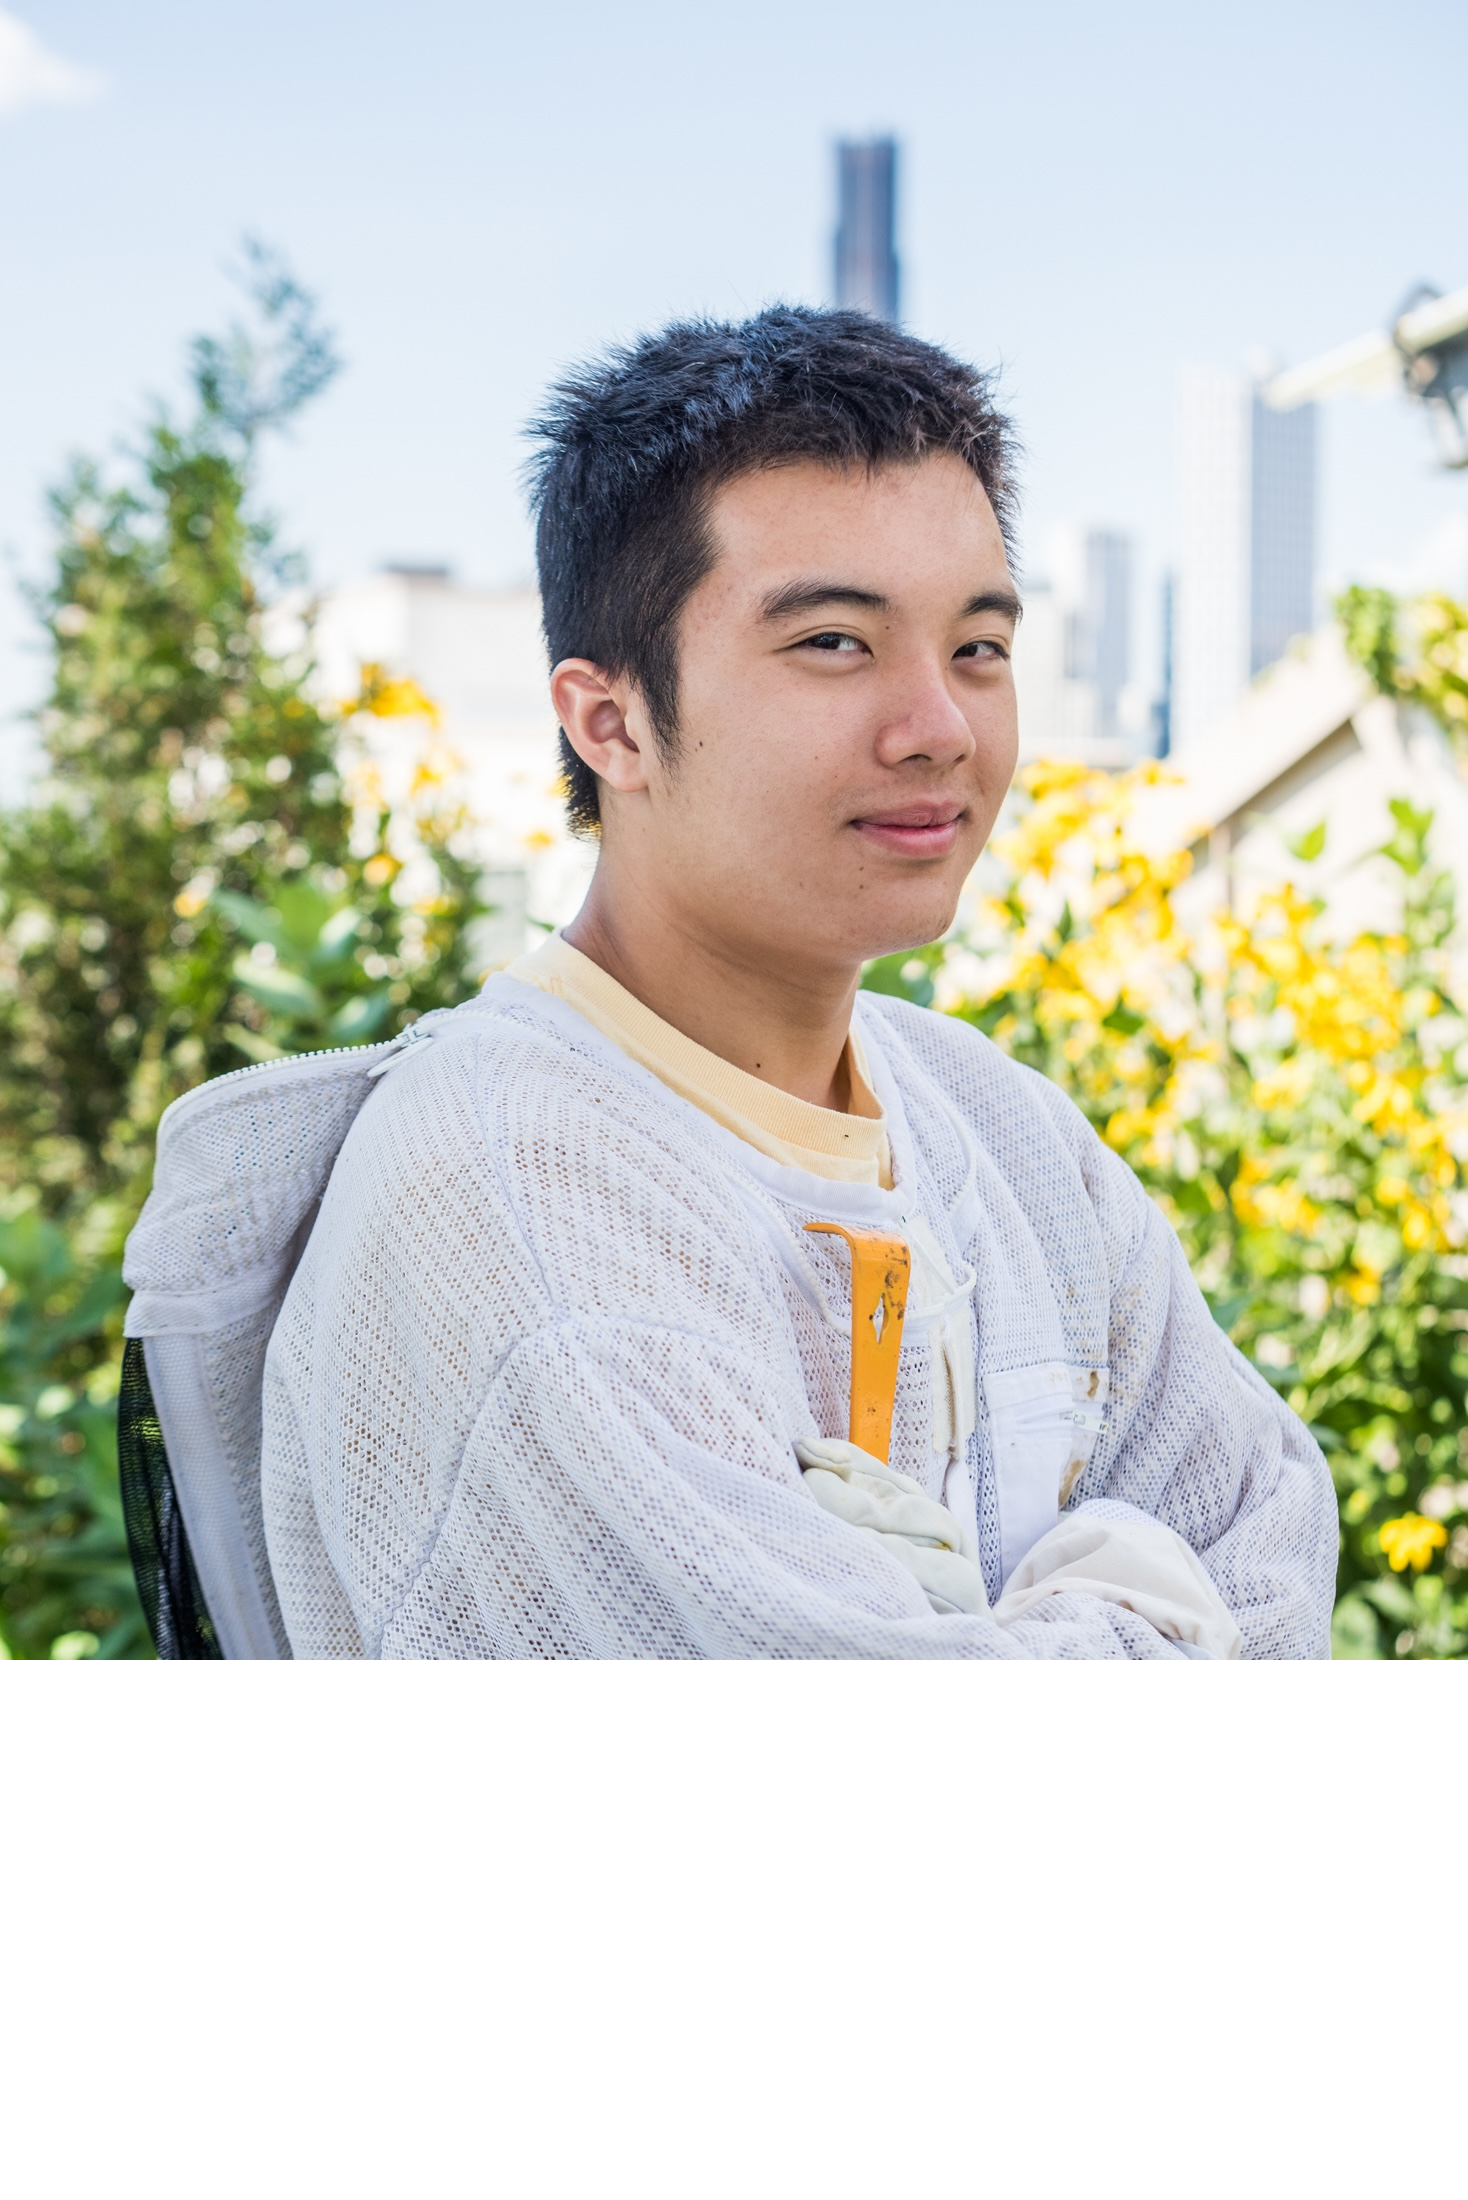
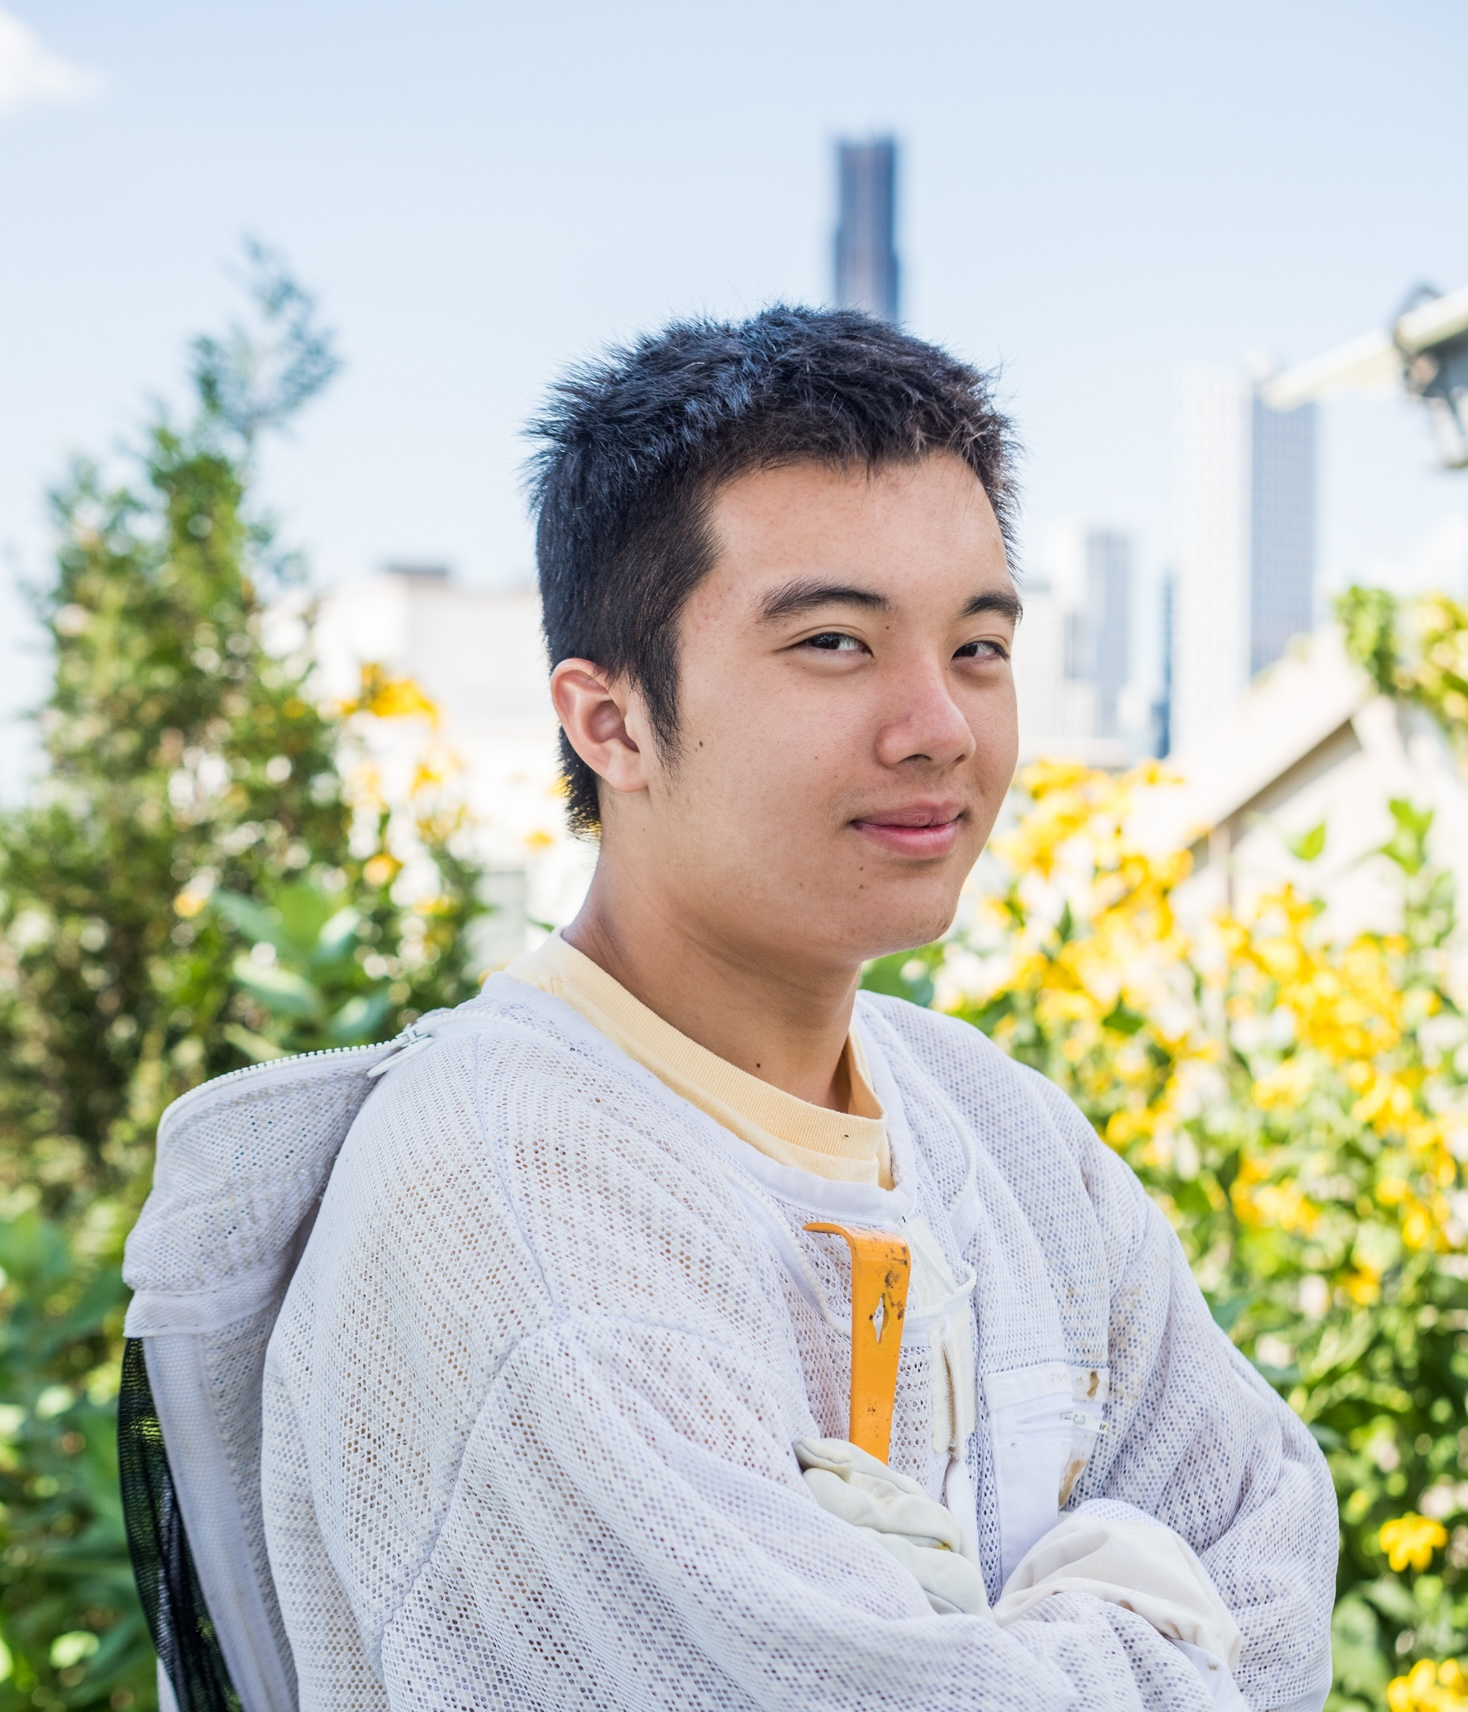
update formatting

diff --git a/src/app/page.tsx b/src/app/page.tsx
@@ -7,15 +7,23 @@ import PersonPhoto from "public/ProfilePic.png"
 export default function Home() {
     return (
         <div className="w-full h-[90vh] grid grid-cols-12 grid-rows-12 ">
-            <div className="relative inline-block z-10 col-start-2 col-span-full row-start-2 row-span-2 sm:col-start-2 sm:col-end-10 sm:row-start-3">
-                <h1 className="text-6xl z-30">Hi, I&apos;m Elias! </h1>
-                <span className="gap-x-0 mt-10 absolute opacity-75 inset-0 bottom-1 -z-10 bg-yellow-300 h-5 w-[22rem]" />
+            <div className="relative inline-block z-10 ml-4 col-start-1 col-span-full row-start-2 sm:row-start-1 row-span-2 md:col-start-1 md:col-span-full md:row-start-3 md:row-span-1 md:ml-4 lg:col-start-1 lg:col-end-10 lg:row-start-3">
+                <h1 className="text-5xl sm:text-6xl z-30">Hi, I&apos;m Elias! </h1>
+                <span className="gap-x-0 mt-6 sm:mt-10 absolute opacity-75 inset-0 bottom-1 -z-10 bg-yellow-300 h-5 w-[17rem] sm:w-[22rem]" />
             </div>
-            <p className="z-10 col-start-2 sm:text-lg row-start-6 col-end-10 sm:col-start-2    sm:col-end-7 sm:row-start-5 sm:row-end-12 md:text-xl font-light">
-                Hi people, and welcome to my website! I’m Elias, and I’m a bookworm, tech guy, and beekeeper. I’m currently a second semester senior at Stuyvesant High School, (and if all goes well) a rising freshman at Cornell University. I’m currently a researcher at Rutgers WINLAB, studying how machine learning can detect the behavior of untrained organisms, a beekeeper at various organizations, and a coder for different organizations :). The photo is from 2022, where I worked as an assistant beekeeper at the Brooklyn Bee Corps, which is part of City Growers.
+            <p className="grid z-10 col-start-1 col-span-full ml-4 mt-4 text-sm  sm:text-base row-start-9 row-span-full sm:col-start-2 sm:col-end-11 sm:mt-2 sm:row-start-8 md:col-start-1  mr-0  md:col-end-7 md:mr-2 md:row-start-4 md:row-end-10 md:text-xl md:ml-4 lg:row-start-4 lg:row-end-11 lg:col-start-1 lg:col-end-6 lg:mr-4 lg:ml-4 font-light">
+                Hi people of the internet, welcome to my website! I’m Elias, and I’m a bookworm, tech guy, and beekeeper. I’m currently a second semester senior at Stuyvesant High School, (and if all goes well) a rising freshman at Cornell University. I’m currently a researcher at Rutgers WINLAB, studying how machine learning can detect the behavior of untrained organisms, a beekeeper at various organizations, and a coder for different organizations :). The photo is from 2022, where I worked as an assistant beekeeper at the Brooklyn Bee Corps, which is part of City Growers.
             </p>
             {/* ! IDK if imma add a photo or not */}
-            <Image src={PersonPhoto} alt="Elias Xu" className="col-start-4 col-span-8 row-start-3 row-span-full dark:brightness-75 z-0 sm:col-start-6 sm:col-span-5 sm:row-start-2 sm:row-span-8 w-fit h-fit" />
+            <div className="relative flex items-start justify-center col-start-1 col-span-full row-start-3 mt-4 row-span-6 sm:col-start-1 sm:col-span-full sm:row-start-2 sm:mr-0 md:col-start-7 md:row-start-3 md:col-span-full md:mr-4 md:row-span-full lg:col-start-6 lg:col-span-6 lg:row-start-3 lg:row-span-9">
+                <Image
+                    src={PersonPhoto}
+                    alt="Elias Xu"
+                    width={500}
+                    height={500}
+                    className="w-auto h-full sm:w-auto sm:h-full md:w-full md:h-auto lg:w-auto lg:h-full object-contain dark:brightness-75 z-0 rounded-sm"
+                />
+            </div>
         </div>
     );
 }

diff --git a/src/app/about/page.tsx b/src/app/about/page.tsx
@@ -25,7 +25,7 @@ export default function About() {
                 <h1 className="text-7xl">
                     About Me
                 </h1>
-                <span className="gap-x-0 mt-10 absolute opacity-75 inset-0 bottom-1 -z-10 bg-cyan-600 h-5 w-[22rem]" />
+                <span className="gap-x-0 mt-10 absolute opacity-75 inset-0 bottom-1 -z-10 bg-cyan-600 h-5 w-[20.75rem]" />
             </div>
             <p className="text-base sm:text-base lg:text-xl ml-10 font-light col-start-1 col-end-11 row-start-3 sm:row-start-4 lg:row-start-4 row-end-12 sm:col-end-7">
                 Here’s a short list of my professional activities for the past few years. Most of my coding projects will either be in the portfolio section of this website, or on my Github. I usually don’t post on Insta or Facebook, but I’ve also listed it for fun.
@@ -36,7 +36,7 @@ export default function About() {
                 <p className="text-lg">
                     Socials
                 </p>
-                <span className="gap-x-0 mt-3 absolute opacity-75 inset-0 bottom-1 -z-10 bg-red-700 h-3 w-[4rem]" />
+                <span className="gap-x-0 mt-3 absolute opacity-75 inset-0 bottom-1 -z-10 bg-red-700 h-3 w-[3.8rem]" />
             </div>
             <div className="row-start-12 sm:row-start-11 col-start-2 col-end-11 sm:col-end-6 lg:col-end-4 flex justify-between align-middle">
                 <a target="_blank" href="https://www.linkedin.com/in/elias-xu-300388282/" className="z-10 hover:-translate-y-2 hover:scale-105"><Image src={Linkedin} alt="Linkedin" className={`w-8 h-8 dark:invert`} /></a>
@@ -55,7 +55,7 @@ export default function About() {
                 <h1 className="text-4xl sm:text-5xl underline">
                     Work Experience
                 </h1>
-                <span className="ml-10 gap-x-0 mt-8 sm:mt-10 absolute opacity-75 inset-0 bottom-1 -z-10 bg-green-700 h-5 w-[19rem] sm:w-[25rem]" />
+                <span className="ml-10 gap-x-0 mt-8 sm:mt-10 absolute opacity-75 inset-0 bottom-1 -z-10 bg-green-700 h-5 w-[18.15rem] sm:w-[24.25rem]" />
             </div>
             <ResumeItem
                 title="Researcher"
@@ -99,7 +99,7 @@ export default function About() {
                 <h1 className="text-4xl sm:text-5xl underline">
                     Education
                 </h1>
-                <span className="ml-10 gap-x-0 mt-8 sm:mt-10 absolute opacity-75 inset-0 bottom-1 -z-10 bg-purple-800 h-5 w-[11rem] sm:w-[14.5rem]" />
+                <span className="ml-10 gap-x-0 mt-8 sm:mt-10 absolute opacity-75 inset-0 bottom-1 -z-10 bg-purple-800 h-5 w-[10.6rem] sm:w-[14.15rem]" />
             </div>
 
             <ResumeItem
@@ -138,7 +138,7 @@ export default function About() {
                 <h1 className="text-4xl sm:text-5xl underline">
                     Awards
                 </h1>
-                <span className="ml-10 gap-x-0 mt-8 sm:mt-10 absolute opacity-75 inset-0 bottom-1 -z-10 bg-amber-700 h-5 w-[9rem] sm:w-[11rem]" />
+                <span className="ml-10 gap-x-0 mt-8 sm:mt-10 absolute opacity-75 inset-0 bottom-1 -z-10 bg-amber-700 h-5 w-[7.9rem] sm:w-[10.5rem]" />
             </div>
 
 

diff --git a/src/app/posts/page.tsx b/src/app/posts/page.tsx
@@ -7,7 +7,7 @@ export default function Posts() {
         <div className="w-full h-[40vh] grid grid-cols-12 grid-rows-12 ">
             <div className="relative inline-block z-10 col-start-2 md:col-start-6 col-span-2 row-start-2 align-middle text-center">
                 <h1 className="text-7xl">Posts</h1>
-                <span className="gap-x-0 mt-10 absolute opacity-75 inset-0 bottom-1 -z-10 bg-purple-700 h-8 w-[14rem]" />
+                <span className="ml-5 gap-x-0 mt-10 absolute opacity-75 inset-0 bottom-1 -z-10 bg-cyan-600 h-8 w-[11.4rem]" />
             </div>
             <div className="col-start-2 col-span-10 row-start-6 row-span-full">
                 <p className="text-2xl font-light">

diff --git a/src/app/portfolio/page.tsx b/src/app/portfolio/page.tsx
@@ -20,7 +20,7 @@ export default function Portfolio() {
         <div className="w-full flex justify-center items-center flex-col">
             <ProjectItem
                 title="Senior Caucus Website"
-                description="A website for the Senior Caucus"
+                description="The Senior Caucus Website! This project is designed to provide information and updates about the Senior Caucus at our school."
                 image={SeniorCaucusWebsite}
                 link="https://github.com/Senior-Caucus/Senior-Caucus-Website"
             />

diff --git a/src/components/ProjectItem.tsx b/src/components/ProjectItem.tsx
@@ -19,7 +19,7 @@ export default function ProjectItem(props: ProjectItemProps) {
             </p>
         </div>
         <div className="p-4 md:p-0 col-start-1 md:col-start-5 col-span-full row-start-8 md:row-start-5 row-span-8">
-            <p className="text-sm md:text-base lg:text-xl font-light">
+            <p className="text-base md:text-base lg:text-xl font-light">
                 {props.description}
             </p>
         </div>

diff --git a/src/components/PostBox.tsx b/src/components/PostBox.tsx
@@ -21,7 +21,7 @@ export default function PostBox(props:PostBoxProps) {
             </p>
         </div>
         <div className="p-4 md:p-0 col-start-1 md:col-start-5 col-span-full row-start-8 md:row-start-5 row-span-8">
-            <p className="text-sm md:text-base lg:text-xl font-light">
+            <p className="text-base md:text-base lg:text-xl font-light">
                 {props.description}
             </p>
         </div>
